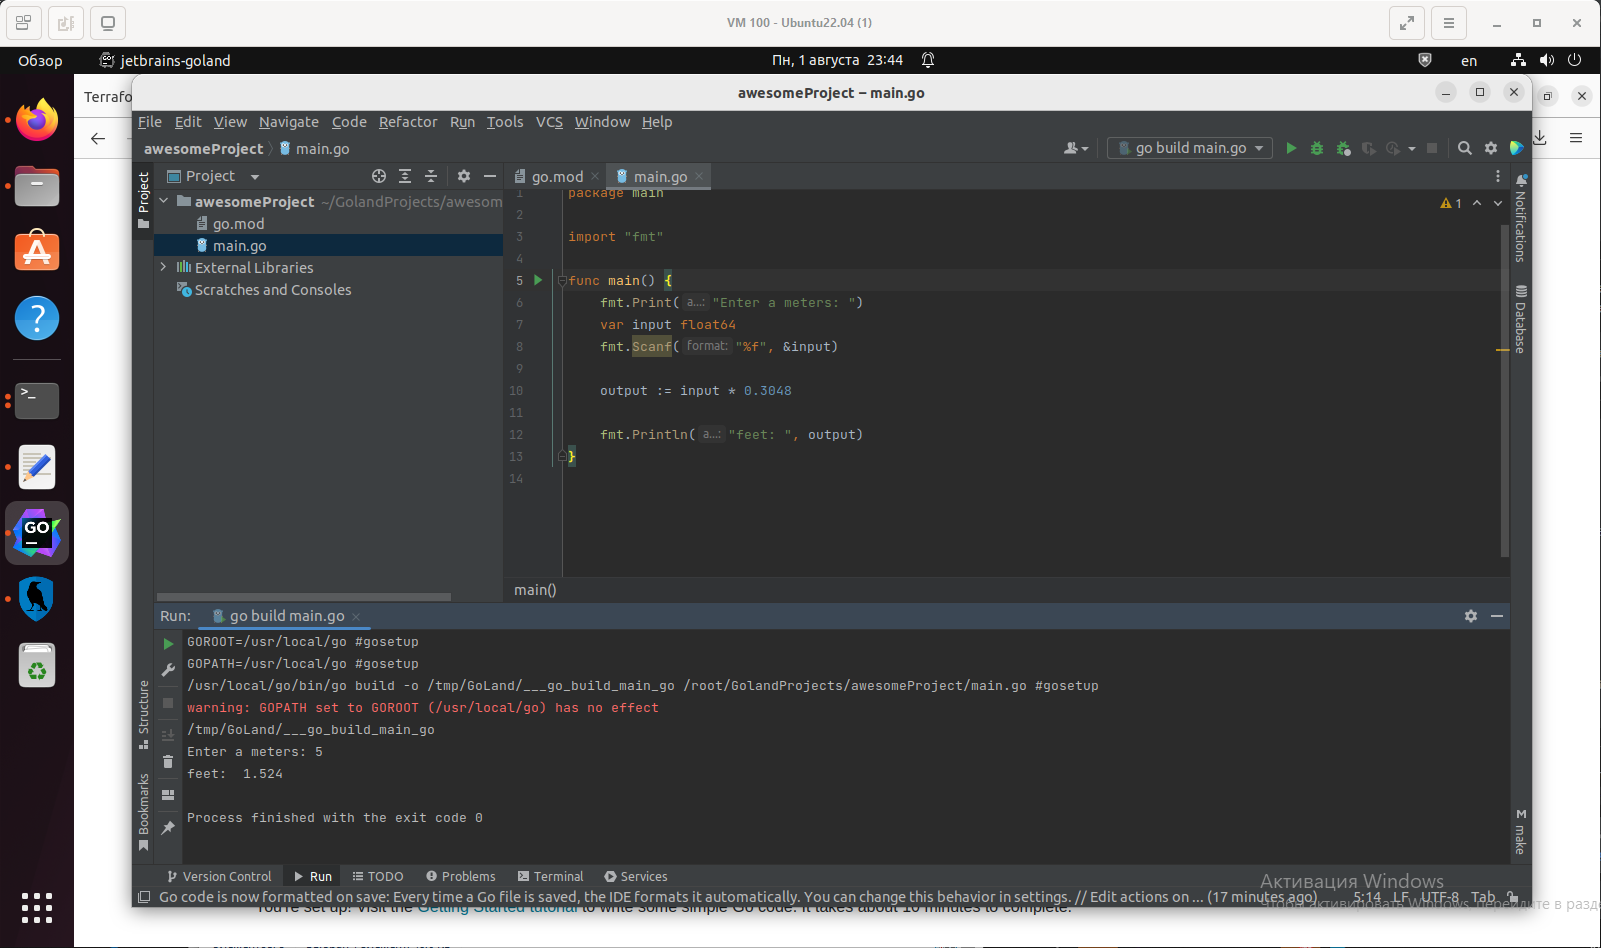
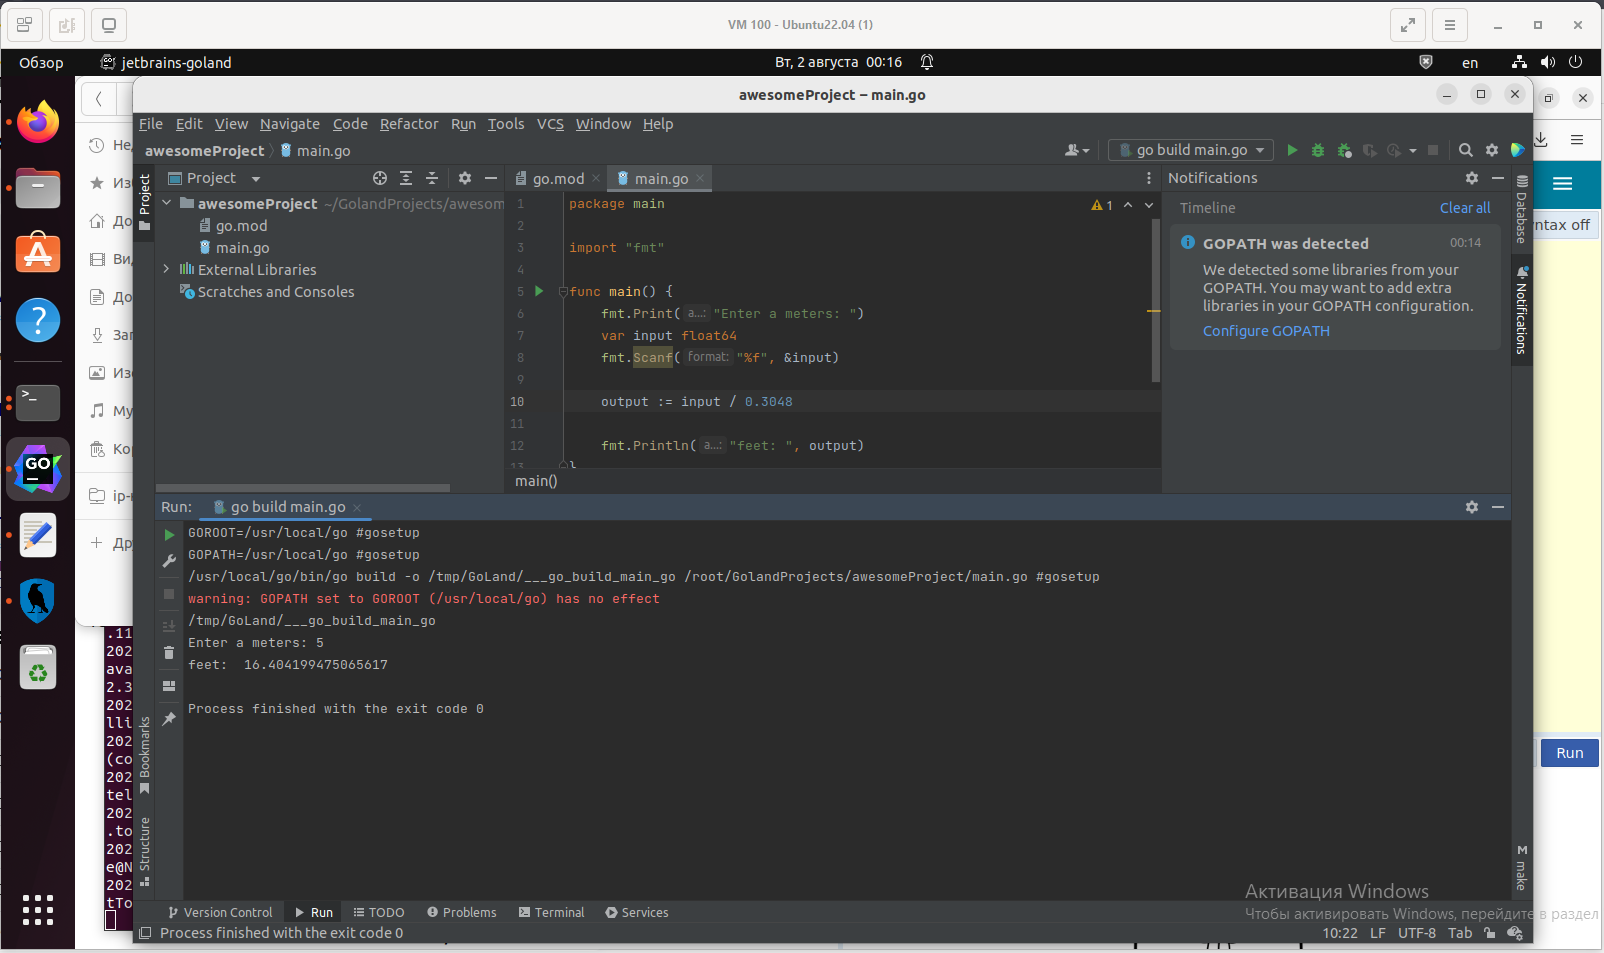
[07-terraform-05-golang] 7.5. Основы golang fix

diff --git a/virt-pdc-2/07-terraform-05-golang/scripts/z1/main.go b/virt-pdc-2/07-terraform-05-golang/scripts/z1/main.go
@@ -7,7 +7,7 @@ func main() {
 	var input float64
 	fmt.Scanf("%f", &input)
 
-	output := input * 0.3048
+	output := input / 0.3048
 
 	fmt.Println("feet: ", output)
 }

diff --git a/virt-pdc-2/07-terraform-05-golang/README.md b/virt-pdc-2/07-terraform-05-golang/README.md
@@ -86,7 +86,7 @@ func main() {
 	var input float64
 	fmt.Scanf("%f", &input)
 
-	output := input * 0.3048
+	output := input / 0.3048
 
 	fmt.Println("feet: ", output)
 }
